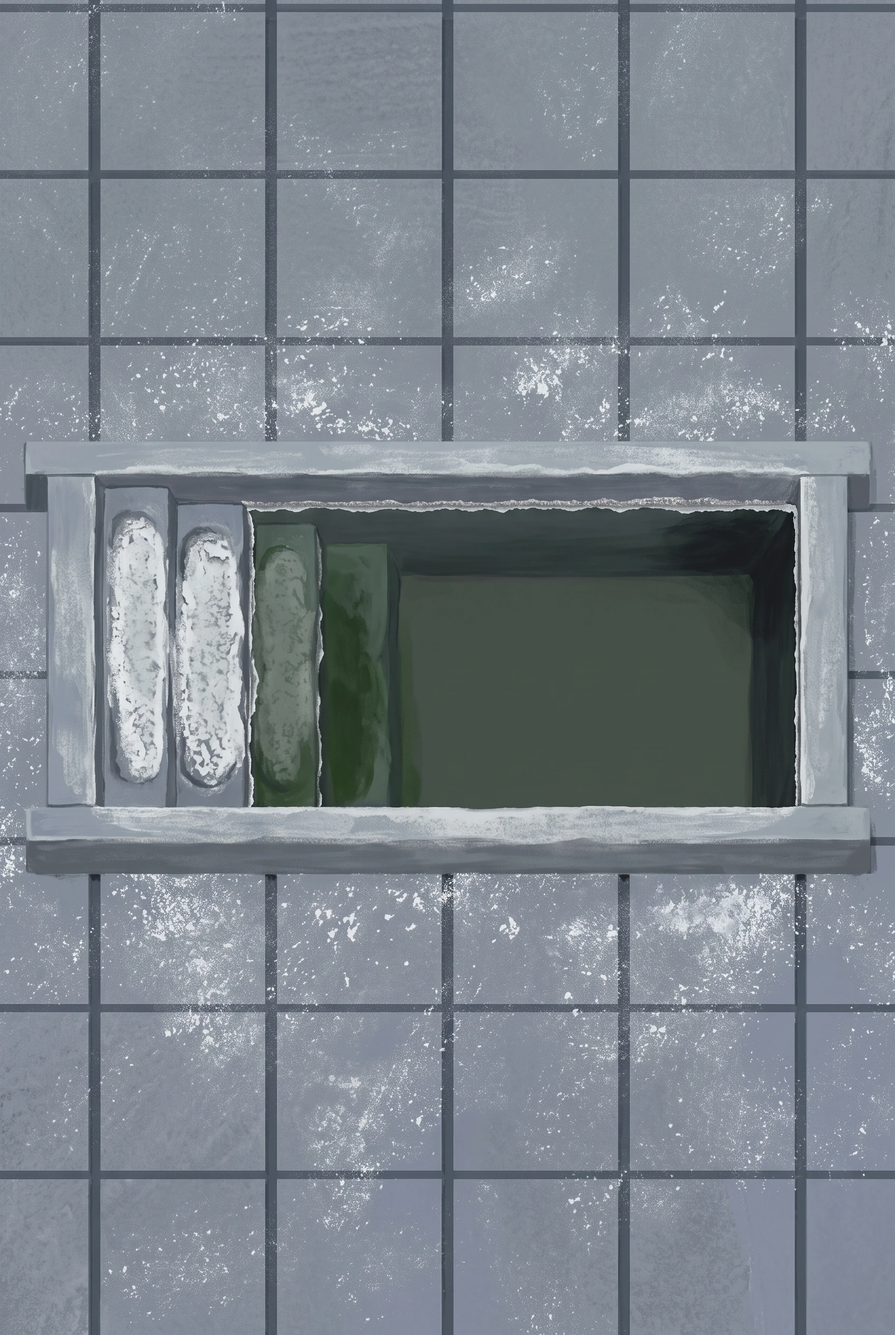
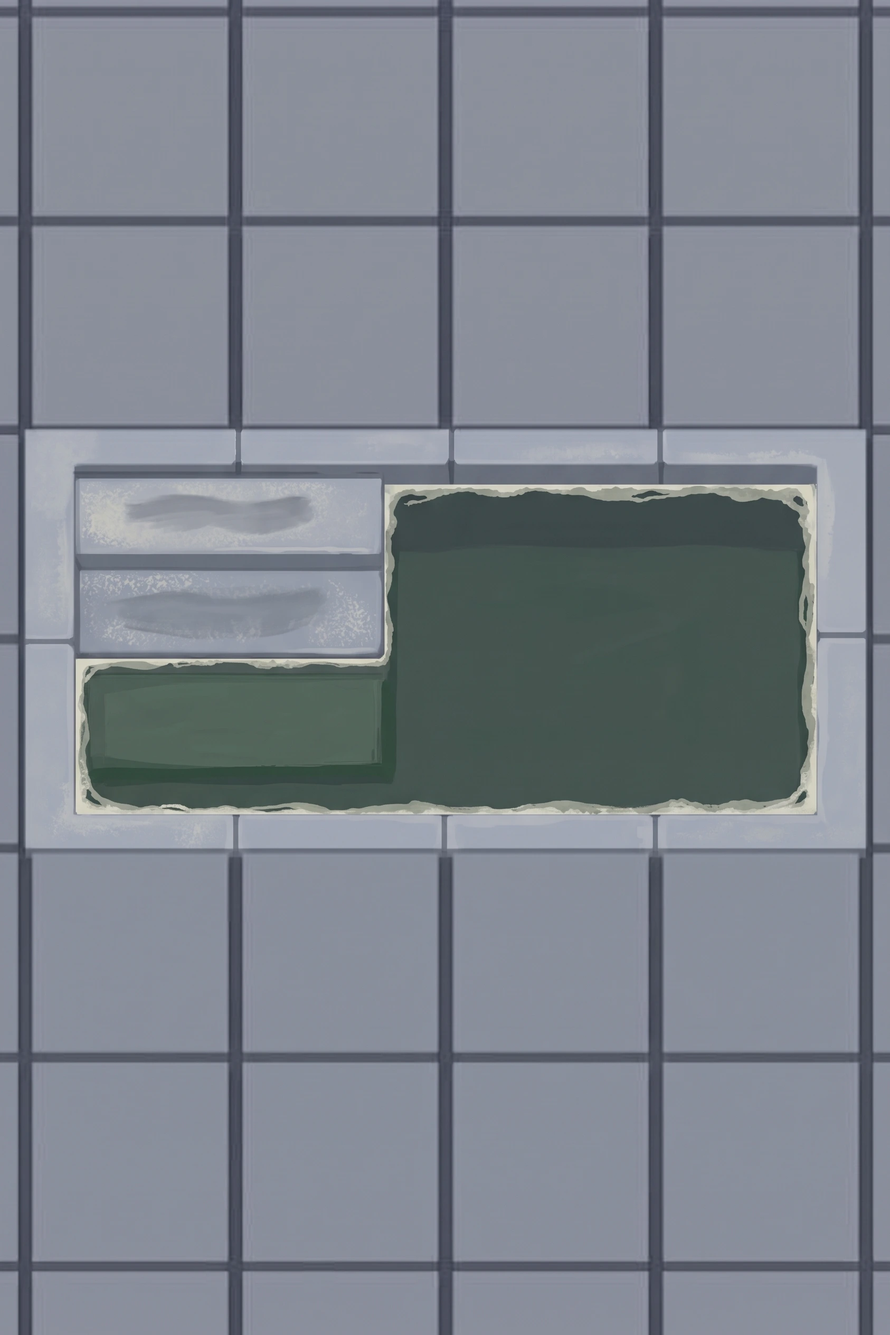
feat: the priest's pool is a hole in the floor, not a slab on it
Claude-Session: https://claude.ai/code/session_012xEDDaoPZfWQpQUSbuj7W8

diff --git a/docs/instructions/repaint-queue.md b/docs/instructions/repaint-queue.md
@@ -91,101 +91,13 @@ landed. `prop-pipeline.md` has the numbers.
 
 ---
 
-## Priest — ten
+## Priest — nine
 
 His CHAMBER props, and none of them existed as a model until now: his rank had nothing but the veil and
-the hanging. Six are new `--contents` variants — `statue` among them, which the table used to send to a scan — and five are geometry another rank already proved, which
+the hanging. Five are new `--contents` variants — `statue` among them, which the table used to send to a scan — and five are geometry another rank already proved, which
 is the difference between them worth knowing — a variant's silhouette is his, a reused one's is not, and
 the prompt is all that makes the reused ones his rank's. His `tallyBoard` is here too, and it is the only
 FLAT thing in the section: no mesh, no mask, straight to the generator.
-
-### `expert/basin` — a sacred pool with steps down into it
-
-**THE TILE IS ALREADY PAINTED — this entry is a RE-ROLL**, and the only one in the file. The landed art
-has its coping standing proud of the paving and a bar of shadow beneath it, which reads as a framed slab
-lying on the floor rather than an opening cut into it. The scaffold has since been rebedded flush and the
-seat dropped; `art/rebuild.sh` keeps the current tile working until the new roll lands.
-
-**A SCAFFOLD THAT COMES WITH A FLOOR — this one and `wizard/basin`, and five failed rolls are why.** A hole cannot
-be a product shot. Every other scaffold is an object on magenta and an object on magenta is a thing you
-could pick up; a hole is an ABSENCE IN A SURFACE, and with the surface missing the same picture is equally
-a tank, a panel or a flat pattern. Told plainly, it came back a raised stone tub. Told that nothing may
-stand up, it came back a flat plan diagram with no depth in it at all. Neither was disobedient — both
-answered the only question the picture asked.
-
-`pit` survives the same shape without a floor because it is full of things that CROSS ITS OWN EDGE: a
-ladder over the near lip, its spoil on the paving outside. Where a hole has no such furniture, the surface
-has to be drawn instead — so this one is handed over rendered `--context=1.04x0.74`, which puts the rank's
-floor round it with a hole of exactly that size cut in it, so the floor's own edge is the coping's outer
-edge. It is added after the camera, so the frame is unchanged, and the mask is rendered WITHOUT it. No
-floor reaches the tile. The two numbers are the coping's own metres, measured off the primitive;
-`prop-pipeline.md` has why that needs saying and what it cost.
-
-**The floor runs off ALL FOUR EDGES**, the near one included. Ground that stops inside the frame is a
-plinth with a hole in it, and with a shadow beneath, a slab floating in the air.
-
-**AND THE COPING IS BEDDED FLUSH, which is what the fifth roll was for.** Built with the paving at the
-water's rim the kerb stood a finger proud of it, and the painted return read exactly as that: a framed
-slab lying ON the floor with its own shadow under it, which at 56 units is a picture hung on a wall. The
-whole pool now drops until the coping's top IS the paving. Nothing stands above the floor any more, so
-this is the one prop in the file imported with no `--seat` — there is nothing left to cast a shadow.
-
-**Regenerating this one's scaffold takes an extra flag** that no other entry needs —
-`--context=1.04x0.74 --shadow=0` on the handed-over render, and on that render only. The exact command is under
-"Regenerating the attachments" at the foot of this file, because a fenced block cannot go here: `yarn
-repaint` takes an entry's FIRST bare fence as the prompt, so a code block above it is what gets pasted.
-
-**Which is why this prompt does not mention magenta.** There is none in the reference: the frame is
-paving. The paint that lands on the paving is discarded by the mask exactly as an invented background is,
-so it costs nothing and is not worth a word of the prompt.
-
-**Attach:**
-
-1. `~/tile-previews/basin-expert.png` — the scaffold
-2. `~/tile-previews/expert-plain.png` — the material reference
-
-```
-A single object painted in flat matte gouache, seen from above and slightly in front, in the same raked
-view as the reference. Portrait, two units wide by three tall, exactly as the reference. No perspective
-and no vanishing point: verticals stay vertical, horizontals stay horizontal.
-
-The scene: a SACRED POOL cut down into a stone floor. The whole frame is that floor, and the pool is a
-hole in it. You are painting a floor with a pool in it, not an object standing on a surface.
-
-The pale field filling the frame is the PAVING. The dark rectangle sunk into it is WATER, filling the pool
-nearly to the brim. The low border running all the way round the water is a stone COPING, a course of kerb
-laid flush with the paving on all four sides, and the length of it nearest you passes IN FRONT of the
-water. The four ledges at the left, the lowest of them under the surface, are STEPS walking down into the
-pool from the paving.
-
-Nothing here is a tank, a tub, a trough or a basin, and nothing has an outside you could see. NOTHING
-STANDS ABOVE THE PAVING — not even the coping, which is bedded level with it, its top face in the same
-plane as the slabs it is set into. Everything else is below.
-
-The paving is dark basalt, cool grey-blue, laid in large dressed slabs and dusted with natron. The ruled
-grid across the whole frame gives the JOINTS between those slabs; keep every one of them where it is, so
-the paving reads as one continuous floor running out of the picture on all four sides. The coping is the
-same stone in one unbroken course with no joints in it, its inner edge rubbed pale where feet cross it —
-that change of surface is all that separates it from the paving, so do not draw a shadow beside it. The
-steps are worn hollow in their middles.
-
-The water is a still flat surface, dark green-grey, a touch lighter where it meets the stone, and darker
-in the far corners. A pale crust of NATRON has dried along the waterline all round and on the tread of the
-step that stands clear of the water; the submerged step is darker and greener than the ones above it.
-
-
-Keep every edge, every proportion and every silhouette exactly as in the reference image — do not move, resize, straighten, add, remove or restyle any part of it, and do not change the angle it stands at. Paint only material and wear.
-
-No highlights, no gloss, no rim light, no reflections. Matte throughout, as if lit by one dull lamp. Priest's tomb, Egyptian New Kingdom: dark basalt, natron dust, bronze and cedar. Cool grey-blue stone, nothing gilded.
-```
-
-Then, once the return is in `~/Downloads`:
-
-```sh
-scaffold basin --contents=pool --colour=#a7b2be --floor=#8d98a5
-yarn import-tile art/masters/props/expert/basin.webp --tier=expert --name=basin --slot=prop \
-  --filter=smooth --mask="$OBJ" --brightness=0.9
-```
 
 ### `expert/brazier` — a censer hanging on its stand
 
@@ -3342,19 +3254,12 @@ silently.
 `render-prop` finds Blender in `/Applications` by itself; set `BLENDER` to point somewhere else, the same
 override `art/rebuild.sh` takes.
 
-**A HOLE's scaffold takes `--context`, and only the handed-over render does.** `expert/basin` and
-`wizard/basin` need it: the floor goes round the object with a hole of the stated size cut in it, so the
+**A HOLE's scaffold takes `--context`, and only the handed-over render does.** `wizard/basin` needs it: the floor goes round the object with a hole of the stated size cut in it, so the
 generator can see what the hole is cut INTO. The mask is rendered without it, so no floor reaches the
 tile. The size is in the primitive's own metres; `prop-pipeline.md` has the rest of the laws. There is no
 footprint render here — nothing on this prop stands above the paving, so it casts nothing.
 
 ```sh
-r() { yarn render-prop --primitive=basin --contents=pool --colour=#a7b2be --floor=#8d98a5 "$@"; }
-P=~/tile-previews/basin-expert
-r --context=1.04x0.74 --shadow=0 --out=$P.png
-r --shadow=0 --background=none --out=$P-obj.png
-
-# and the gods', the same shape in the other rank's stone
 r() { yarn render-prop --primitive=basin --contents=pool --colour=#8fd9bd --floor=#5a8074 "$@"; }
 P=~/tile-previews/basin-wizard
 r --context=1.04x0.74 --shadow=0 --out=$P.png

diff --git a/docs/instructions/site-map-art-handover.md b/docs/instructions/site-map-art-handover.md
@@ -37,7 +37,7 @@ two figures and five wall items were written down already; their ten chamber pro
 beside them, on primitives every other rank had already proved. Only `wizard/crystal` still needs
 geometry.
 
-**Modelling is no longer the bottleneck anywhere — generation is.** The queue is 68 entries, which is
+**Modelling is no longer the bottleneck anywhere — generation is.** The queue is 67 entries, which is
 everything left in the whole set bar one primitive, and none of it needs Blender again.
 
 **Read `yarn art-census`, not this paragraph.** The count below is a snapshot and every summary of it in
@@ -48,7 +48,7 @@ this file has drifted at least once.
 ### The three files that run the work
 
 - **[repaint-queue.md](repaint-queue.md)** — **start here.** Every prompt still owed, with the two images to
-  attach and the import line to run afterwards. 68 entries: the priest, the pharaoh, the gods, the shared scatter and conditions, and nineteen patron variants. `yarn repaint <key>`
+  attach and the import line to run afterwards. 67 entries: the priest, the pharaoh, the gods, the shared scatter and conditions, and nineteen patron variants. `yarn repaint <key>`
   copies one to the clipboard and reveals its attachments in the Finder; `yarn repaint` lists the keys.
   Entries are DELETED as they land, so the file's length is the backlog.
 - **[art-tasks.md](art-tasks.md)** — the ledger: what each remaining gap is waiting on, which a census
@@ -188,7 +188,7 @@ where a purpose has two wall items to choose between.
 API bills per image, so the paste is done by hand and the tooling only saves the searching.
 
 ```sh
-yarn repaint                  # the 68 keys still owed
+yarn repaint                  # the 67 keys still owed
 yarn repaint master/mask      # prompt to the clipboard, both attachments revealed in the Finder
 # attach the two, paste, generate, download to ~/Downloads
 ```
@@ -223,16 +223,15 @@ escape — the importer refuses it. Pick which end matters and say so in the reb
 
 **The open work**, ranked by rooms waiting on it. **Everything the map can draw is now IN the queue** — every
 placeholder the census counts, and every patron variant the world pairs. `yarn art-census` and
-`yarn repaint` reconcile exactly, with four differences and each one written down in the entry that
+`yarn repaint` reconcile exactly, with three differences and each one written down in the entry that
 carries it:
 
 - `wizard/crystal` — an entry with no prompt, because there is no primitive to render a scaffold from.
 - `default/flooded` — not queued: no site in the world authors a flooded condition, so a painted tide
   line would be drawn nowhere.
-- `expert/basin` — painted already; its entry is a RE-ROLL against a rebedded scaffold.
 - `wizard/niche` — queued, but no room at that rank draws a niche until the gods' wall pool includes one.
 
-1. **Work the queue** — 68 entries and every one is a paste rather than a modelling job. `yarn repaint`
+1. **Work the queue** — 67 entries and every one is a paste rather than a modelling job. `yarn repaint`
    lists them GROUPED BY RANK, poorest tomb first, which is how a rank actually gets finished and how
    the material reference stays the same between pastes.
 

diff --git a/CHANGELOG.md b/CHANGELOG.md
@@ -188,8 +188,9 @@ and this project adheres to [Semantic Versioning](https://semver.org/spec/v2.0.0
   cedar posts before the shrine. His linen is fine enough to see the wall through — the temple's cloth is
   thinner than anyone else's, and where it gathers into a fold it thickens.
 - The priest's chambers hold his own furniture now: an altar with a libation channel worn into it, four
-  canopic jars under their human, baboon, jackal and falcon heads, and Anubis himself lying black and
-  gold-collared on a slab of basalt.
+  canopic jars under their human, baboon, jackal and falcon heads, his corded coffin with its arms
+  crossed, a sacred pool cut into the paving with steps walking down into the water, and Anubis himself
+  lying black and gold-collared on a slab of basalt.
 
 ### Fixed
 
